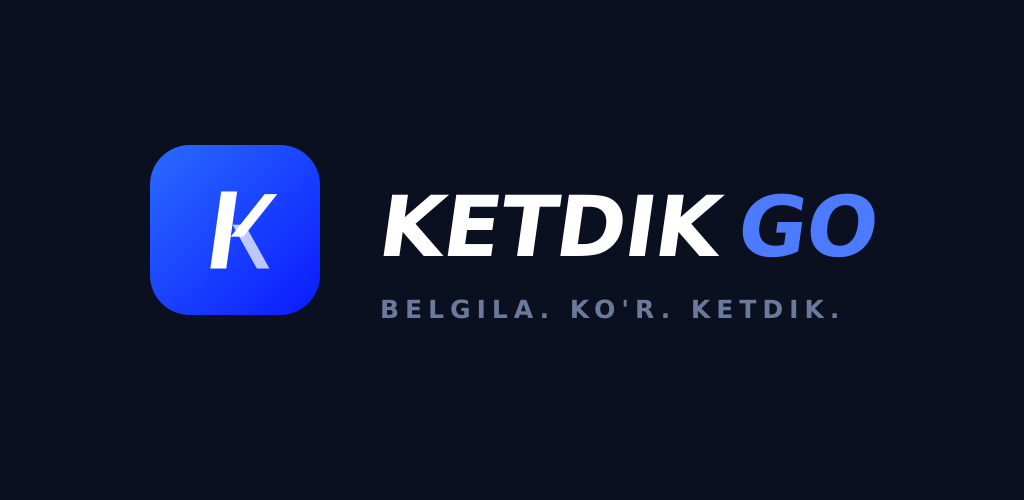
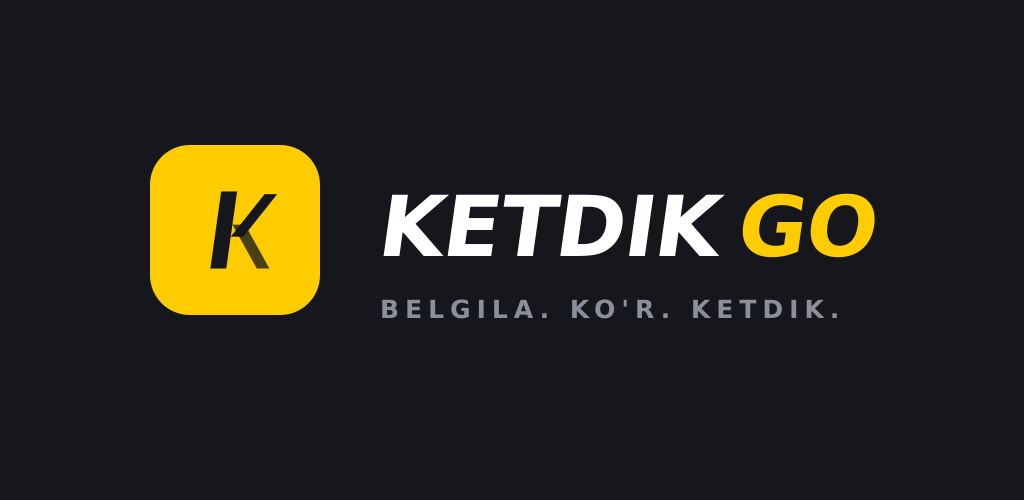
fix: T-19 admin ovozlar to'liq + AI tugma suriladigan + sariq brend ikonkalar
T-19 — admin ovozlari (sabab: mapping to'liq emas edi):
- Haydovchi App.js: 'start'da speak() to'g'ridan-to'g'ri TTS chalardi —
  endi playStatusSound(adminSound('trip_started'), ...) — admin ovoz USTUN
- Mijoz App.js: admin ovozlar UMUMAN chalinmasdi — endi /api/config/sounds
  manifesti yuklanadi va driver_arrived / trip_started / trip_completed /
  order_cancelled holatlarida chalinadi (expo-audio, bir martalik, jim
  rejimda ham). Admin ovoz yo'q bo'lsa — jim (mijozda TTS zaxira yo'q)
- Backend saqlash (POST /api/admin/sounds) allaqachon to'g'ri — tegilmadi

AI tugma — SURILADIGAN (draggable):
- Ikkala ilovaga DraggableAiButton: PanResponder bilan istagan joyga
  suriladi, chetga yopishadi (snap), joylashuv AsyncStorage'da saqlanadi,
  tegish (surmasdan) — chat ochiladi. Standart joy: o'ng chet, ekran o'rtasi
  (barmoq yetadigan, xarita/buyurtma tugmalariga xalaqit bermaydi)

Sariq brend ikonkalar (ko'k olib tashlandi):
- Mijoz: sariq #FFCC00 fon + to'q #15171c K; haydovchi: to'q fon + sariq
  K + sariq PRO; splash ikkalasi: to'q fon + sariq K
- icon/adaptive-icon/splash-icon/favicon/store assetlari qayta yaratildi
- app.json: faqat splash.backgroundColor va adaptiveIcon.backgroundColor
  (EAS maydonlari tegilmagan). Ikonka NATIVE build talab qiladi

Claude-Session: https://claude.ai/code/session_01TTitTQ5wHQn1VUshj7GUEs

Changed region(s): [[0.125, 0.27, 0.3125, 0.63], [0.7188, 0.39, 0.875, 0.51], [0.375, 0.6, 0.8125, 0.66]]

diff --git a/elga-mijoz/App.js b/elga-mijoz/App.js
@@ -7,7 +7,7 @@ import React, { useState, useEffect, useRef, useMemo, useCallback } from 'react'
 import {
   View, Text, TextInput, TouchableOpacity, StyleSheet,
   ActivityIndicator, Alert, ScrollView, Modal, Linking, FlatList,
-  Animated, Easing, Image, Dimensions, AppState, Platform,
+  Animated, Easing, Image, Dimensions, AppState, Platform, PanResponder,
 } from 'react-native';
 import { StatusBar } from 'expo-status-bar';
 import AsyncStorage from '@react-native-async-storage/async-storage';
@@ -18,7 +18,7 @@ import { WebView } from 'react-native-webview';
 import { io } from 'socket.io-client';
 import { SafeAreaProvider, useSafeAreaInsets } from 'react-native-safe-area-context';
 import { Ionicons } from '@expo/vector-icons';
-import { useAudioRecorder, AudioModule, RecordingPresets, setAudioModeAsync } from 'expo-audio';
+import { useAudioRecorder, AudioModule, RecordingPresets, setAudioModeAsync, createAudioPlayer } from 'expo-audio';
 
 // ─── Ajratilgan modullar ───
 import { fmt, fmtPhone } from './src/utils';
@@ -53,6 +53,86 @@ const EAS_PROJECT_ID = 'e5561b58-380f-45f6-9cc4-c6af58eaec84';
 
 // Faol buyurtma lokal saqlanadigan kalit (crash/kill/OS-restart'da yo'qolmaydi).
 const ACTIVE_ORDER_KEY = 'ACTIVE_ORDER';
+
+// T-19: Admin panelda yuklangan holat ovozlari MIJOZ ilovasida ham chalinsin
+// (driver_arrived, trip_started, trip_completed, order_cancelled). Ilgari mijoz
+// ilovasida bu ovozlar UMUMAN ijro etilmasdi. Bir martalik (loop emas), telefon
+// "jim" rejimida ham eshitiladi.
+setAudioModeAsync({ playsInSilentMode: true }).catch(() => {});
+let _statusPlayer = null;
+function playAdminSoundUrl(url) {
+  if (!url) return; // admin ovoz yuklamagan — jim (mijozda TTS zaxira yo'q)
+  try {
+    if (_statusPlayer) { try { _statusPlayer.remove(); } catch (_) {} _statusPlayer = null; }
+    const p = createAudioPlayer({ uri: url });
+    try { p.volume = 1.0; } catch (_) {}
+    try {
+      p.addListener('playbackStatusUpdate', (st) => {
+        if (st && st.didJustFinish && _statusPlayer === p) { try { p.remove(); } catch (_) {} _statusPlayer = null; }
+      });
+    } catch (_) {}
+    p.play();
+    _statusPlayer = p;
+  } catch (_) { _statusPlayer = null; }
+}
+
+// SURILADIGAN (draggable) AI tugma — foydalanuvchi barmoq bilan istagan joyga
+// ko'chiradi, qo'yib yuborganda yaqin chetga "yopishadi" (snap). Joylashuv
+// AsyncStorage'da saqlanadi. Tegish (surmasdan) — onPress. Buyurtma
+// tugmalariga xalaqit bermaydi: kichik (44px), pastki panel zonasi chegaralangan.
+function DraggableAiButton({ insets, onPress, storageKey, accent, iconColor }) {
+  const BTN = 44, M = 12;
+  const { width: SW, height: SH } = Dimensions.get('window');
+  const yMin = insets.top + 60;
+  const yMax = SH - insets.bottom - BTN - 190; // pastki buyurtma paneliga tegmasin
+  const defPos = { x: SW - BTN - M, y: Math.max(yMin, Math.min(yMax, SH * 0.38)) };
+  const pos = useRef(new Animated.ValueXY(defPos)).current;
+  const startRef = useRef(defPos);
+  const movedRef = useRef(false);
+  useEffect(() => {
+    AsyncStorage.getItem(storageKey).then((v) => {
+      if (!v) return;
+      try {
+        const p = JSON.parse(v);
+        if (Number.isFinite(p.x) && Number.isFinite(p.y)) {
+          pos.setValue({ x: Math.min(SW - BTN - M, Math.max(M, p.x)), y: Math.max(yMin, Math.min(yMax, p.y)) });
+        }
+      } catch (_) {}
+    }).catch(() => {});
+  }, []);
+  const pan = useRef(PanResponder.create({
+    onStartShouldSetPanResponder: () => true,
+    onPanResponderGrant: () => {
+      movedRef.current = false;
+      startRef.current = { x: pos.x.__getValue(), y: pos.y.__getValue() };
+    },
+    onPanResponderMove: (_, g) => {
+      if (Math.abs(g.dx) > 6 || Math.abs(g.dy) > 6) movedRef.current = true;
+      pos.setValue({ x: startRef.current.x + g.dx, y: startRef.current.y + g.dy });
+    },
+    onPanResponderRelease: (_, g) => {
+      if (!movedRef.current) { onPress && onPress(); return; } // surilmadi — bu TEGISH
+      const x = startRef.current.x + g.dx, y = startRef.current.y + g.dy;
+      const snapX = (x + BTN / 2) < SW / 2 ? M : SW - BTN - M;
+      const clampY = Math.max(yMin, Math.min(yMax, y));
+      Animated.spring(pos, { toValue: { x: snapX, y: clampY }, useNativeDriver: false, friction: 6 }).start();
+      AsyncStorage.setItem(storageKey, JSON.stringify({ x: snapX, y: clampY })).catch(() => {});
+    },
+    onPanResponderTerminate: () => {},
+  })).current;
+  return (
+    <Animated.View
+      {...pan.panHandlers}
+      style={[pos.getLayout(), {
+        position: 'absolute', width: BTN, height: BTN, zIndex: 60,
+        borderRadius: BTN / 2, backgroundColor: accent,
+        alignItems: 'center', justifyContent: 'center',
+        elevation: 6, shadowColor: '#000', shadowOpacity: 0.3, shadowRadius: 6, shadowOffset: { width: 0, height: 2 },
+      }]}>
+      <Ionicons name="sparkles" size={20} color={iconColor} />
+    </Animated.View>
+  );
+}
 
 // Ixtiyoriy NetInfo — internet qaytishini tez aniqlash uchun. Standalone (EAS) buildda
 // to'liq ishlaydi; Expo Go yoki modul o'rnatilmagan bo'lsa xavfsiz o'tkazib yuboriladi
@@ -539,6 +619,23 @@ function AppInner() {
   // Arrived bildirishnomasi bir marta chiqsin
   const arrivedNotified = useRef(false);
 
+  // T-19: admin ovozlari manifesti { key: to'liq URL } + trip_started dedup
+  const soundMapRef = useRef({});
+  const tripStartedSoundRef = useRef(null); // shu buyurtma uchun chalindi (takror emas)
+  useEffect(() => {
+    (async () => {
+      try {
+        const r = await api('/api/config/sounds', 'GET', null, null, 15000);
+        const m = {};
+        for (const [k, v] of Object.entries((r && r.sounds) || {})) {
+          if (v) m[k] = /^https?:\/\//i.test(v) ? v : BASE + v;
+        }
+        soundMapRef.current = m;
+      } catch (_) { /* ovozsiz davom etadi — keyingi ochilishda qayta uriniladi */ }
+    })();
+  }, []);
+  const adminSoundUrl = (key) => soundMapRef.current[key] || null;
+
   // Qidiruv
   const [searchQ, setSearchQ] = useState('');
   const [searchResults, setSearchResults] = useState([]);
@@ -945,17 +1042,26 @@ function AppInner() {
       if (o.status === 'arrived' && !arrivedNotified.current) {
         arrivedNotified.current = true;
         notify('Haydovchi yetib keldi ✅', 'Mashina sizni kutmoqda');
+        playAdminSoundUrl(adminSoundUrl('driver_arrived')); // T-19: admin ovozi (mijoz)
+      }
+      // T-19: safar boshlandi — admin ovozi (bir buyurtma uchun bir marta)
+      if (o.status === 'in_progress' && tripStartedSoundRef.current !== o.id) {
+        tripStartedSoundRef.current = o.id;
+        playAdminSoundUrl(adminSoundUrl('trip_started'));
       }
       if (o.status === 'completed') {
         finishedOrderIdRef.current = o.id; // kechikkan event uni tiriltirmasin (#order-resurrect)
         notify('Safar yakunlandi 🏁', 'Rahmat! Haydovchini baholang');
+        playAdminSoundUrl(adminSoundUrl('trip_completed')); // T-19: admin ovozi (mijoz)
         setCompletedOrder(o);          // hisob-kitob ko'rsatish uchun saqlayмиз
         setRateOrderId(o.id); setStars(5); setTipAmount(0); setRateModal(true);
         resetOrder();
       }
       if (o.status === 'cancelled') {
         finishedOrderIdRef.current = o.id; // kechikkan event uni tiriltirmasin (#order-resurrect)
-        notify('Buyurtma bekor qilindi', ''); resetOrder();
+        notify('Buyurtma bekor qilindi', '');
+        playAdminSoundUrl(adminSoundUrl('order_cancelled')); // T-19: admin ovozi (mijoz)
+        resetOrder();
       }
     });
     s.on('driver_location', (loc) => {
@@ -1926,12 +2032,10 @@ function AppInner() {
             </View>
 
             {/* Avatar circle */}
-            {/* AI yordamchi — suzuvchi tugma (doim ko'rinadi, 1 tegishда ochiladi) */}
-            <TouchableOpacity
-              style={[s.avatarCircle, { top: insets.top + 64, right: 16, backgroundColor: YELLOW }]}
-              onPress={() => setAiModal(true)} activeOpacity={0.85}>
-              <Ionicons name="sparkles" size={20} color="#000" />
-            </TouchableOpacity>
+            {/* AI yordamchi — SURILADIGAN suzuvchi tugma (istagan joyga ko'chiriladi) */}
+            <DraggableAiButton
+              insets={insets} onPress={() => setAiModal(true)}
+              storageKey="AI_FAB_POS" accent={YELLOW} iconColor="#000" />
             <TouchableOpacity style={[s.avatarCircle, { top: insets.top + 8, right: 16 }]} onPress={() => setTab('profile')}>
               <Text style={s.avatarInitial}>{(user?.name?.[0] || 'U').toUpperCase()}</Text>
             </TouchableOpacity>

diff --git a/App.js b/App.js
@@ -8,7 +8,7 @@ import {
   View, Text, TextInput, TouchableOpacity, StyleSheet,
   ActivityIndicator, Alert, ScrollView, Linking, Platform,
   Modal, KeyboardAvoidingView, FlatList, Animated, Vibration, Easing,
-  AppState,
+  AppState, PanResponder, Dimensions,
 } from 'react-native';
 import { StatusBar } from 'expo-status-bar';
 import AsyncStorage from '@react-native-async-storage/async-storage';
@@ -578,6 +578,67 @@ export default function App() {
 }
 
 // ===== KetdikGo brend wordmark (matn asosida) — Ket sariq, dik oq, Go sariq =====
+// SURILADIGAN (draggable) AI tugma — foydalanuvchi barmoq bilan istagan joyga
+// ko'chiradi, qo'yib yuborganda yaqin chetga "yopishadi" (snap). Joylashuv
+// AsyncStorage'da saqlanadi (keyingi ochilishda o'sha joyda). Tegish (surmasdan)
+// — onPress. Haydashga xalaqit bermaydi: kichik (44px), xarita ustida suzadi.
+function DraggableAiButton({ insets, onPress, storageKey }) {
+  const BTN = 44, M = 12; // tugma o'lchami va chetdan masofa
+  const { width: SW, height: SH } = Dimensions.get('window');
+  const yMin = insets.top + 60;                 // yuqori panel ostidan
+  const yMax = SH - insets.bottom - BTN - 170;  // pastki panel/tugmalarga tegmasin
+  // Standart joy: O'NG chet, ekranning ~40% balandligi (barmoq yetadigan)
+  const defPos = { x: SW - BTN - M, y: Math.max(yMin, Math.min(yMax, SH * 0.4)) };
+  const pos = useRef(new Animated.ValueXY(defPos)).current;
+  const startRef = useRef(defPos);
+  const movedRef = useRef(false);
+  useEffect(() => {
+    AsyncStorage.getItem(storageKey).then((v) => {
+      if (!v) return;
+      try {
+        const p = JSON.parse(v);
+        if (Number.isFinite(p.x) && Number.isFinite(p.y)) {
+          pos.setValue({ x: Math.min(SW - BTN - M, Math.max(M, p.x)), y: Math.max(yMin, Math.min(yMax, p.y)) });
+        }
+      } catch (_) {}
+    }).catch(() => {});
+  }, []);
+  const pan = useRef(PanResponder.create({
+    onStartShouldSetPanResponder: () => true,
+    onPanResponderGrant: () => {
+      movedRef.current = false;
+      startRef.current = { x: pos.x.__getValue(), y: pos.y.__getValue() };
+    },
+    onPanResponderMove: (_, g) => {
+      if (Math.abs(g.dx) > 6 || Math.abs(g.dy) > 6) movedRef.current = true;
+      pos.setValue({ x: startRef.current.x + g.dx, y: startRef.current.y + g.dy });
+    },
+    onPanResponderRelease: (_, g) => {
+      if (!movedRef.current) { onPress && onPress(); return; } // surilmadi — bu TEGISH
+      const x = startRef.current.x + g.dx, y = startRef.current.y + g.dy;
+      const snapX = (x + BTN / 2) < SW / 2 ? M : SW - BTN - M; // yaqin chetga yopishadi
+      const clampY = Math.max(yMin, Math.min(yMax, y));
+      Animated.spring(pos, { toValue: { x: snapX, y: clampY }, useNativeDriver: false, friction: 6 }).start();
+      AsyncStorage.setItem(storageKey, JSON.stringify({ x: snapX, y: clampY })).catch(() => {});
+    },
+    onPanResponderTerminate: () => {
+      // boshqa element panni tortib oldi — tugma joyida qoladi
+    },
+  })).current;
+  return (
+    <Animated.View
+      {...pan.panHandlers}
+      style={[pos.getLayout(), {
+        position: 'absolute', width: BTN, height: BTN, zIndex: 60,
+        borderRadius: BTN / 2, backgroundColor: YELLOW,
+        alignItems: 'center', justifyContent: 'center',
+        elevation: 6, shadowColor: '#000', shadowOpacity: 0.3, shadowRadius: 6, shadowOffset: { width: 0, height: 2 },
+      }]}>
+      <Ionicons name="sparkles" size={20} color="#1A1500" />
+    </Animated.View>
+  );
+}
+
 // AI yordamchi modali (haydovchi) — bosh ekrandagi suzuvchi tugmadan 1 tegishда
 // ochiladi. Holat komponent ichida (ilova ochiq ekan suhbat saqlanadi).
 // Tejamkor: faqat oxirgi 4 xabar yuboriladi; timeout+retry — jim to'xtamaydi (T-20).
@@ -1730,7 +1791,8 @@ function AppInner() {
       } else {
         const nextStatus = r.order?.status || statusAfter(action);
         if (action === 'start') {
-          speak("Safar boshlandi. Yaxshi yo'l!");
+          // T-19: admin yuklagan trip_started ovozi USTUN; yo'q bo'lsa TTS zaxira
+          playStatusSound(adminSound('trip_started'), "Safar boshlandi. Yaxshi yo'l!");
           updatePersistentNotif('Safar davom etmoqda...');
         } else if (action === 'accept') {
           updatePersistentNotif('Buyurtma qabul qilindi · Yo\'lda');
@@ -2005,18 +2067,8 @@ function AppInner() {
             </TouchableOpacity>
           </View>
 
-          {/* ── AI yordamchi — kichik burchak tugmasi (haydashga xalaqit bermaydi) ── */}
-          <TouchableOpacity
-            style={{
-              position: 'absolute', top: insets.top + 62, right: 12,
-              width: 42, height: 42, borderRadius: 21,
-              backgroundColor: YELLOW, alignItems: 'center', justifyContent: 'center',
-              elevation: 5, shadowColor: '#000', shadowOpacity: 0.3, shadowRadius: 6, shadowOffset: { width: 0, height: 2 },
-            }}
-            onPress={() => setAiModal(true)}
-            activeOpacity={0.8}>
-            <Ionicons name="sparkles" size={20} color="#1A1500" />
-          </TouchableOpacity>
+          {/* ── AI yordamchi — SURILADIGAN tugma (istagan joyga ko'chiriladi, chetga yopishadi) ── */}
+          <DraggableAiButton insets={insets} onPress={() => setAiModal(true)} storageKey="AI_FAB_POS" />
 
           {/* ── Pastki panel — buyurtma YO'Q: online sheet ── */}
           {!order && (
